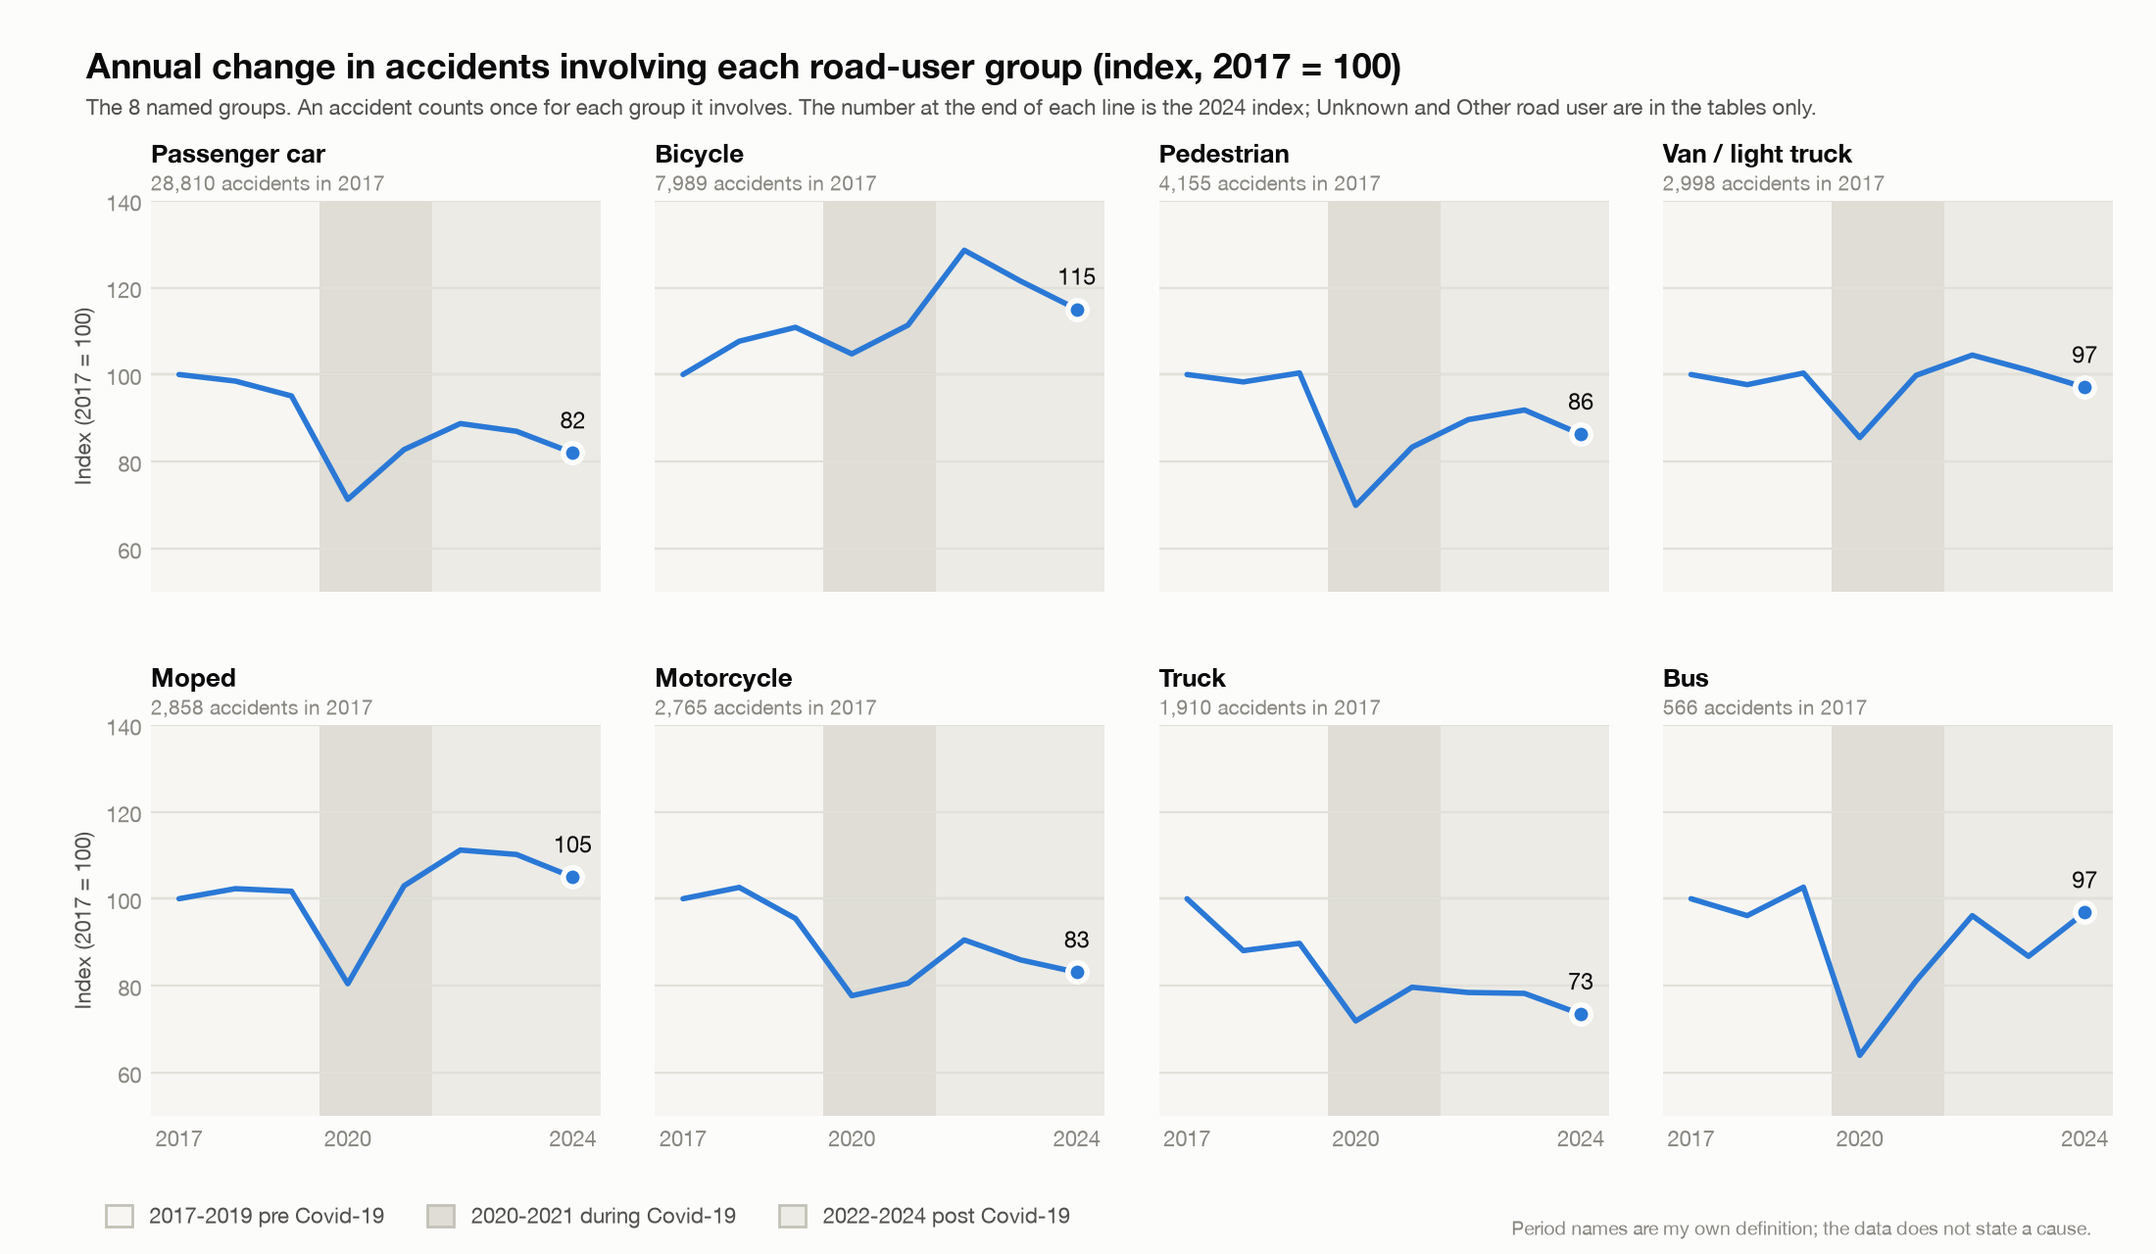
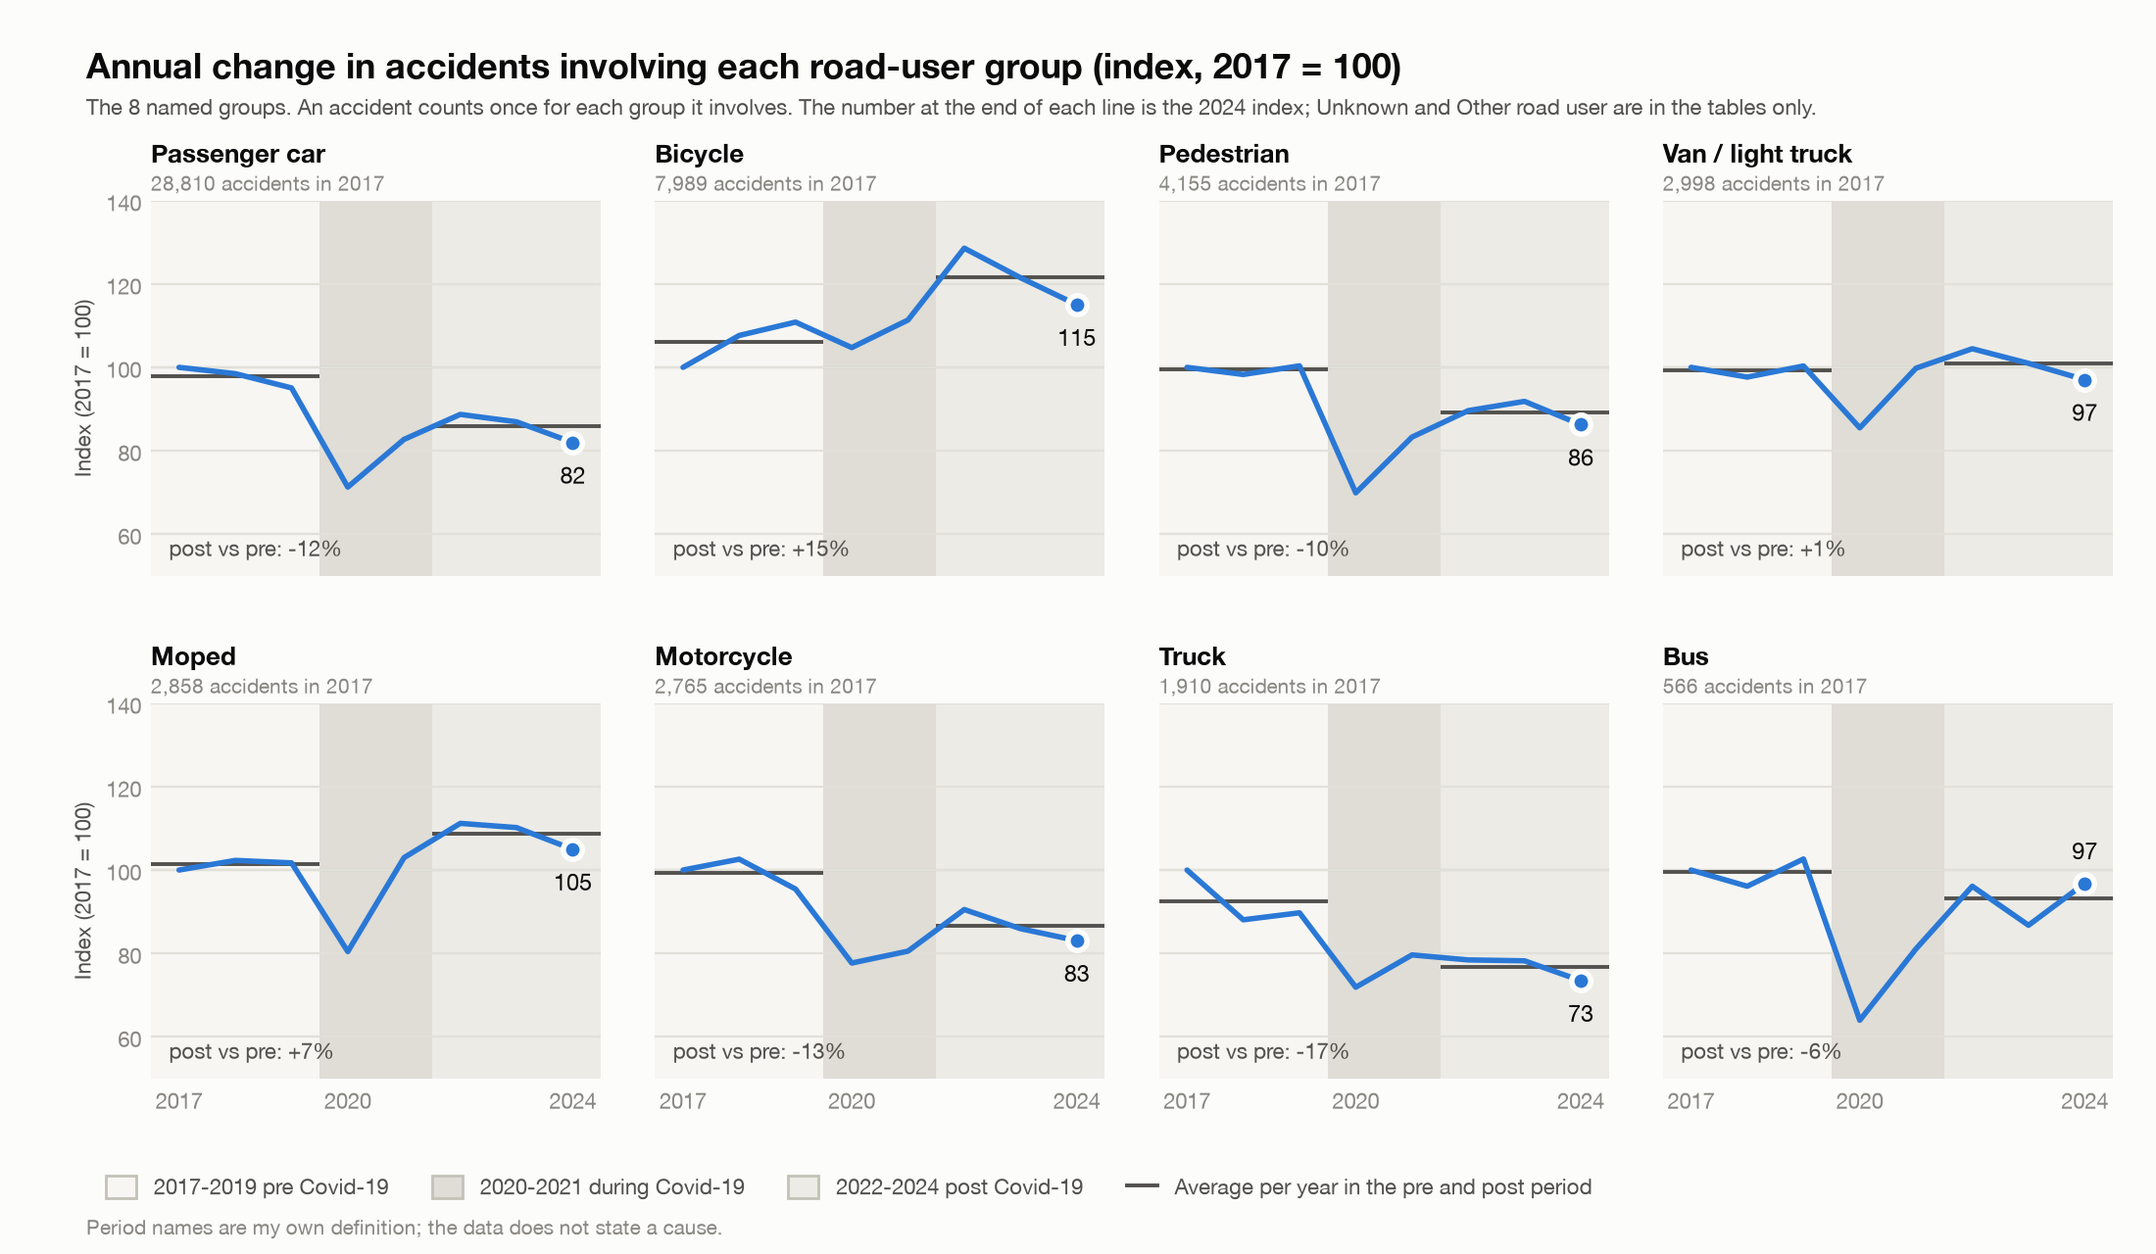
Add post vs pre comparison to the period table and graph, decision log entries 37-49

diff --git a/scripts/08_annual_change_per_road_user.py b/scripts/08_annual_change_per_road_user.py
@@ -16,6 +16,8 @@ Decisions applied (see beslissingslogboek.md):
   #42 change within a period = average yearly % change (compound) and average accidents per year.
   #43 the graph shows the three periods as light shaded bands.
   #45 period averages are compared with the period before (during vs pre, post vs during).
+  #46/#47 added on request: "post vs pre" = % difference between the average accidents per year in 2022-2024 and 2017-2019.
+  #48 the graph shows the pre and post averages as thin lines in every panel, with a "post vs pre" label.
 
 How to run (from the project folder, with `conda activate syntra-ds`):
     python -I scripts/08_annual_change_per_road_user.py OPENDATA_MAP_2017-2024_en_flagged.csv.gz reports
@@ -26,6 +28,7 @@ from pathlib import Path
 import matplotlib
 matplotlib.use("Agg")  # draw to a file, not to a window
 import matplotlib.pyplot as plt
+from matplotlib.lines import Line2D
 from matplotlib.patches import Patch
 import pandas as pd
 
@@ -108,6 +111,8 @@ for name, (start, end) in PERIODS.items():
 # % difference between period averages, each period vs the one before (decision #45)
 periods["avg_diff_pct_during_vs_pre"] = (periods["avg_per_year_during_2020_2021"] / periods["avg_per_year_pre_2017_2019"] - 1) * 100
 periods["avg_diff_pct_post_vs_during"] = (periods["avg_per_year_post_2022_2024"] / periods["avg_per_year_during_2020_2021"] - 1) * 100
+# decisions #46/#47: post vs pre, i.e. 2022-2024 against 2017-2019 (skips the "during" period)
+periods["avg_diff_pct_post_vs_pre"] = (periods["avg_per_year_post_2022_2024"] / periods["avg_per_year_pre_2017_2019"] - 1) * 100
 periods.to_csv(output_dir / "annual_periods.csv", float_format="%.2f")
 
 avg_cols = [c for c in periods.columns if c.startswith("avg_per_year") or c.startswith("avg_diff")]
@@ -133,10 +138,19 @@ for ax, group in zip(axes.flat, named):
     for key, (left, right) in band_edges.items():
         ax.axvspan(left, right, color=BANDS[key], zorder=0, linewidth=0)
     ax.axhline(100, color=BASELINE, linewidth=0.8, zorder=1)  # the 2017 level
+    # Thin lines at the average of the pre and the post period, on the same index scale (decision #48).
+    for key, column in (("pre", "avg_per_year_pre_2017_2019"), ("post", "avg_per_year_post_2022_2024")):
+        average_index = periods.loc[group, column] / counts.loc[group, first] * 100
+        ax.plot(band_edges[key], [average_index, average_index], color=INK_2, linewidth=1.4, zorder=2, solid_capstyle="butt")
+    ax.text(0.04, 0.04, f"post vs pre: {periods.loc[group, 'avg_diff_pct_post_vs_pre']:+.0f}%", transform=ax.transAxes, fontsize=8, color=INK_2, ha="left", va="bottom")
     ax.plot(years, index.loc[group], color=BLUE, linewidth=2, solid_capstyle="round", solid_joinstyle="round", zorder=3)
     ax.plot([years[-1]], [index.loc[group, years[-1]]], marker="o", markersize=7, color=BLUE, markeredgecolor=SURFACE, markeredgewidth=2, zorder=4)
     end_value = index.loc[group, years[-1]]
-    ax.annotate(f"{end_value:.0f}", (years[-1], end_value), xytext=(0, 9), textcoords="offset points", ha="center", fontsize=8.5, color=INK)
+    post_average = periods.loc[group, "avg_per_year_post_2022_2024"] / counts.loc[group, first] * 100
+    # Put the 2024 label on the side of the dot that does NOT have the post-average line, so they never overlap.
+    above = end_value >= post_average
+    ax.annotate(f"{end_value:.0f}", (years[-1], end_value), xytext=(0, 7 if above else -7), textcoords="offset points",
+                ha="center", va="bottom" if above else "top", fontsize=8.5, color=INK)
     ax.set_title(f"{group}", fontsize=9.5, color=INK, loc="left", pad=14, fontweight="bold")
     ax.text(0, 1.015, f"{counts.loc[group, first]:,} accidents in {first}", transform=ax.transAxes, fontsize=7.5, color=MUTED, ha="left", va="bottom")
     for side in ("top", "right", "left", "bottom"):
@@ -155,9 +169,10 @@ fig.text(0.04, 0.925, "The 8 named groups. An accident counts once for each grou
          fontsize=8, color=INK_2, ha="left", va="top")
 fig.legend(handles=[Patch(facecolor=BANDS["pre"], edgecolor=BASELINE, label="2017-2019 pre Covid-19"),
                     Patch(facecolor=BANDS["during"], edgecolor=BASELINE, label="2020-2021 during Covid-19"),
-                    Patch(facecolor=BANDS["post"], edgecolor=BASELINE, label="2022-2024 post Covid-19")],
-           loc="lower left", bbox_to_anchor=(0.04, 0.005), ncol=3, frameon=False, fontsize=8, labelcolor=INK_2, handlelength=1.2, handleheight=1.2)
-fig.text(0.97, 0.012, "Period names are my own definition; the data does not state a cause.", fontsize=7, color=MUTED, ha="right", va="bottom")
-fig.subplots_adjust(left=0.07, right=0.98, top=0.84, bottom=0.11, wspace=0.12, hspace=0.34)
+                    Patch(facecolor=BANDS["post"], edgecolor=BASELINE, label="2022-2024 post Covid-19"),
+                    Line2D([0], [0], color=INK_2, linewidth=1.4, label="Average per year in the pre and post period")],
+           loc="lower left", bbox_to_anchor=(0.04, 0.028), ncol=4, frameon=False, fontsize=8, labelcolor=INK_2, handlelength=1.4, handleheight=1.2)
+fig.text(0.04, 0.012, "Period names are my own definition; the data does not state a cause.", fontsize=7.5, color=MUTED, ha="left", va="bottom")
+fig.subplots_adjust(left=0.07, right=0.98, top=0.84, bottom=0.14, wspace=0.12, hspace=0.34)
 fig.savefig(output_dir / "annual_change_per_road_user.png", facecolor=SURFACE)
 print(f"Saved 4 CSV files and annual_change_per_road_user.png in {output_dir}/")

diff --git a/beslissingslogboek.md b/beslissingslogboek.md
@@ -38,12 +38,16 @@
 | 34 | 2026-11-04 | "Unknown" (code 99) and "Other road user" (code 02) get their own lines in the table; the type 2 values "Single road user..." (codes 10 and 11) are not road users, get no line, and the number of rows they cover (59,804) is reported. | Show Unknown and Other, leave out single user; leave out Unknown and Other too; show everything as lines. | accepted: show Unknown and Other, leave out single user | Unknown stays visible as a category, and a single road user is not a second road user. | Dropping Unknown and Other (about 10% of rows would disappear from the totals); showing the single-user values as groups. |
 | 35 | 2026-11-04 | All 289,532 rows are counted, including the 32 flagged possible duplicates; one row is treated as one accident (the data has no ID to prove it). | All rows; exclude the 32 flagged rows. | accepted: all 289,532 rows | The flagged rows can't be proven duplicates, and the effect is about 0.01%. | Excluding the flagged rows (counts on 289,500; effect about 0.01%). |
 | 36 | 2026-11-04 | Output of analysis 1a: a table in the terminal (counts and % of all accidents), a CSV in `reports/`, a bar chart image, and script `07_accidents_per_road_user.py`, all committed to GitHub. | Table + CSV + chart; table + CSV; terminal only. | accepted: table + saved CSV + bar chart | A chart makes the ranking visible at a glance, and the CSV lets me re-check the numbers. | No chart; terminal only (nothing saved). |
-| 37 | 2026-11-04 | Analysis 1b: calculate the annual changes in accident involvement by road-user group, as a table and a graph. The counting rules of step a still apply (#33-#35): an accident counts once per group, Unknown and Other road user stay as lines, all 289,532 rows. Observed before deciding: group sizes differ a lot (Passenger car about 25,000-29,000 a year, Bus about 360-580), 2020 is lower for almost every group, and Unknown grows from 2,612 (2017) to 5,566 (2024). | — (my own instruction) | accepted | _(to be filled in by me)_ | — |
-| 38 | 2026-11-04 | Measures of change: year-over-year % change; total change 2017 -> 2024; and a three-period comparison in my own words: "check changes from 3 periods: pre Covid-19 (2017 to 2019), during Covid-19 (2020 to 2021), and post Covid-19 (2022 to 2024)". Year-over-year absolute change was not chosen. | YoY % change; YoY absolute change; total change 2017 -> 2024. | adapted: YoY % + total change 2017 -> 2024 + my own three-period comparison; no absolute change | _(to be filled in by me)_ | Absolute year-over-year change (big groups would dominate). |
-| 39 | 2026-11-04 | Graph: small multiples, one line panel per group, indexed 2017 = 100 on a shared scale. | Small multiples indexed 2017 = 100; heatmap of YoY % change; one line chart with all 10 groups. | accepted: small multiples, indexed 2017 = 100 | _(to be filled in by me)_ | Heatmap (shows change but not the level); one chart with 10 lines (crowded). |
-| 40 | 2026-11-04 | Tables are wide: road-user groups as rows, years as columns, one table per measure, printed and saved as CSV in the same shape. | Wide tables groups x years; one long table. | accepted: wide tables | _(to be filled in by me)_ | One long table (better for later code, harder to read by eye). |
-| 41 | 2026-11-04 | Adjustments: none to the calculations (2020 and the growing Unknown line are only noted in the text); Unknown and Other road user are left out of the graph but stay in the tables. No extra 2019 -> 2021 comparison. | None, only note them; add a 2019 -> 2021 comparison; leave Unknown and Other road user out of the graph. | adapted: no adjustments to the calculations, plus leaving Unknown and Other road user out of the graph | _(to be filled in by me)_ | A 2019 -> 2021 comparison that skips 2020. |
-| 42 | 2026-11-04 | Change within the three periods is measured as (a) the average yearly % change (compound: (end/start)^(1/years) - 1, so periods of different length can be compared; for 2020 -> 2021 it equals the single yearly change) and (b) the average number of accidents per year in each period (2017-2019, 2020-2021, 2022-2024). Start-to-end % change was not chosen. The changes 2019 -> 2020 and 2021 -> 2022 belong to no period and stay visible in the year-over-year table. | Start-to-end % change; average yearly % change; average accidents per year per period. | accepted: average yearly % change + average accidents per year per period | _(to be filled in by me)_ | Start-to-end % change (periods of 3, 2 and 3 years are not directly comparable). |
-| 43 | 2026-11-04 | The graph shows the three periods as light shaded bands (2017-2019, 2020-2021, 2022-2024), labelled with my own names (pre, during, post Covid-19). The data itself does not state a cause for 2020; the labels are my definition. | Light shaded bands with labels; no bands. | accepted: light shaded bands with labels | _(to be filled in by me)_ | A clean graph without bands (periods in the tables only). |
-| 44 | 2026-11-04 | Confirmed reading of the adjustments (#41): calculations unchanged; 2020 and Unknown only noted in the text; graph with 8 panels (without Unknown and Other road user); tables with all 10 lines. | My reading as stated; or something else typed by me. | accepted: yes, that is right | _(to be filled in by me)_ | — |
-| 45 | 2026-11-04 | The period averages (accidents per year) are compared with the period before: "during vs pre" (2020-2021 vs 2017-2019) and "post vs during" (2022-2024 vs 2020-2021), as % difference. "Post vs pre" is not calculated. | Each period vs the one before; all three pairs; both later periods vs pre only. | accepted: each period vs the one before | _(to be filled in by me)_ | All three pairs (also post vs pre, to see whether the level came back to before the dip). |
+| 37 | 2026-11-04 | Analysis 1b: calculate the annual changes in accident involvement by road-user group, as a table and a graph. The counting rules of step a still apply (#33-#35): an accident counts once per group, Unknown and Other road user stay as lines, all 289,532 rows. Observed before deciding: group sizes differ a lot (Passenger car about 25,000-29,000 a year, Bus about 360-580), 2020 is lower for almost every group, and Unknown grows from 2,612 (2017) to 5,566 (2024). | — (my own instruction) | accepted | I want to see how each road user's involvement develops over time, not only the total. | — |
+| 38 | 2026-11-04 | Measures of change: year-over-year % change; total change 2017 -> 2024; and a three-period comparison in my own words: "check changes from 3 periods: pre Covid-19 (2017 to 2019), during Covid-19 (2020 to 2021), and post Covid-19 (2022 to 2024)". Year-over-year absolute change was not chosen. | YoY % change; YoY absolute change; total change 2017 -> 2024. | adapted: YoY % + total change 2017 -> 2024 + my own three-period comparison; no absolute change | % change makes big and small groups comparable, and the three periods let me look at the 2020 dip separately. | Absolute year-over-year change (big groups would dominate). |
+| 39 | 2026-11-04 | Graph: small multiples, one line panel per group, indexed 2017 = 100 on a shared scale. | Small multiples indexed 2017 = 100; heatmap of YoY % change; one line chart with all 10 groups. | accepted: small multiples, indexed 2017 = 100 | Small multiples on one index scale make groups comparable without 10 lines crowding one chart. | Heatmap (shows change but not the level); one chart with 10 lines (crowded). |
+| 40 | 2026-11-04 | Tables are wide: road-user groups as rows, years as columns, one table per measure, printed and saved as CSV in the same shape. | Wide tables groups x years; one long table. | accepted: wide tables | Wide tables are easiest to read by eye and to compare years side by side. | One long table (better for later code, harder to read by eye). |
+| 41 | 2026-11-04 | Adjustments: none to the calculations (2020 and the growing Unknown line are only noted in the text); Unknown and Other road user are left out of the graph but stay in the tables. No extra 2019 -> 2021 comparison. | None, only note them; add a 2019 -> 2021 comparison; leave Unknown and Other road user out of the graph. | adapted: no adjustments to the calculations, plus leaving Unknown and Other road user out of the graph | I don't want to change the data for 2020 or Unknown, but the graph is easier to read with only the named groups. | A 2019 -> 2021 comparison that skips 2020. |
+| 42 | 2026-11-04 | Change within the three periods is measured as (a) the average yearly % change (compound: (end/start)^(1/years) - 1, so periods of different length can be compared; for 2020 -> 2021 it equals the single yearly change) and (b) the average number of accidents per year in each period (2017-2019, 2020-2021, 2022-2024). Start-to-end % change was not chosen. The changes 2019 -> 2020 and 2021 -> 2022 belong to no period and stay visible in the year-over-year table. | Start-to-end % change; average yearly % change; average accidents per year per period. | accepted: average yearly % change + average accidents per year per period | The periods have different lengths, so an average yearly rate makes them comparable, and averages show the level. | Start-to-end % change (periods of 3, 2 and 3 years are not directly comparable). |
+| 43 | 2026-11-04 | The graph shows the three periods as light shaded bands (2017-2019, 2020-2021, 2022-2024), labelled with my own names (pre, during, post Covid-19). The data itself does not state a cause for 2020; the labels are my definition. | Light shaded bands with labels; no bands. | accepted: light shaded bands with labels | Bands show my periods directly in the graph. | A clean graph without bands (periods in the tables only). |
+| 44 | 2026-11-04 | Confirmed reading of the adjustments (#41): calculations unchanged; 2020 and Unknown only noted in the text; graph with 8 panels (without Unknown and Other road user); tables with all 10 lines. | My reading as stated; or something else typed by me. | accepted: yes, that is right | I confirmed the reading so the build matches what I meant. | — |
+| 45 | 2026-11-04 | The period averages (accidents per year) are compared with the period before: "during vs pre" (2020-2021 vs 2017-2019) and "post vs during" (2022-2024 vs 2020-2021), as % difference. "Post vs pre" is not calculated. | Each period vs the one before; all three pairs; both later periods vs pre only. | accepted: each period vs the one before | Comparing each period with the one before follows the order in time. | All three pairs (also post vs pre, to see whether the level came back to before the dip). |
+| 46 | 2026-11-04 | New request on analysis 1b, in my own words: "I also want a comparison between pre and post covid. Can you please add it to that table and the graph." This adds the comparison of the post period (2022-2024) with the pre period (2017-2019), which entry #45 had left out on purpose. | — (my own instruction) | accepted | _(to be filled in by me)_ | — |
+| 47 | 2026-11-04 | The period table gets one new column, "post vs pre": the % difference between the average accidents per year in 2022-2024 and in 2017-2019, same method as the other two comparisons (#45). No absolute difference column. | % difference of the averages; absolute difference of the averages (select all that apply). | accepted: % difference of the averages only | _(to be filled in by me)_ | An absolute difference column (big groups would dominate). |
+| 48 | 2026-11-04 | The graph shows pre vs post inside every panel of the small multiples: a thin line at the pre average and at the post average (on the same index scale) and a label such as "post vs pre: -12%". No separate bar chart. | In every panel; a separate bar chart; both. | accepted: in every panel of the small multiples | _(to be filled in by me)_ | A separate bar chart (would also include Unknown and Other road user, but separates the comparison from the yearly lines). |
+| 49 | 2026-11-04 | I open the graph files myself; after each run the AI tells me the file path (the files are also on GitHub). | I open them myself; the AI opens them after each run. | accepted: I open them myself | _(to be filled in by me)_ | Letting the AI run `open` after each run (an image pops up on my screen). |
